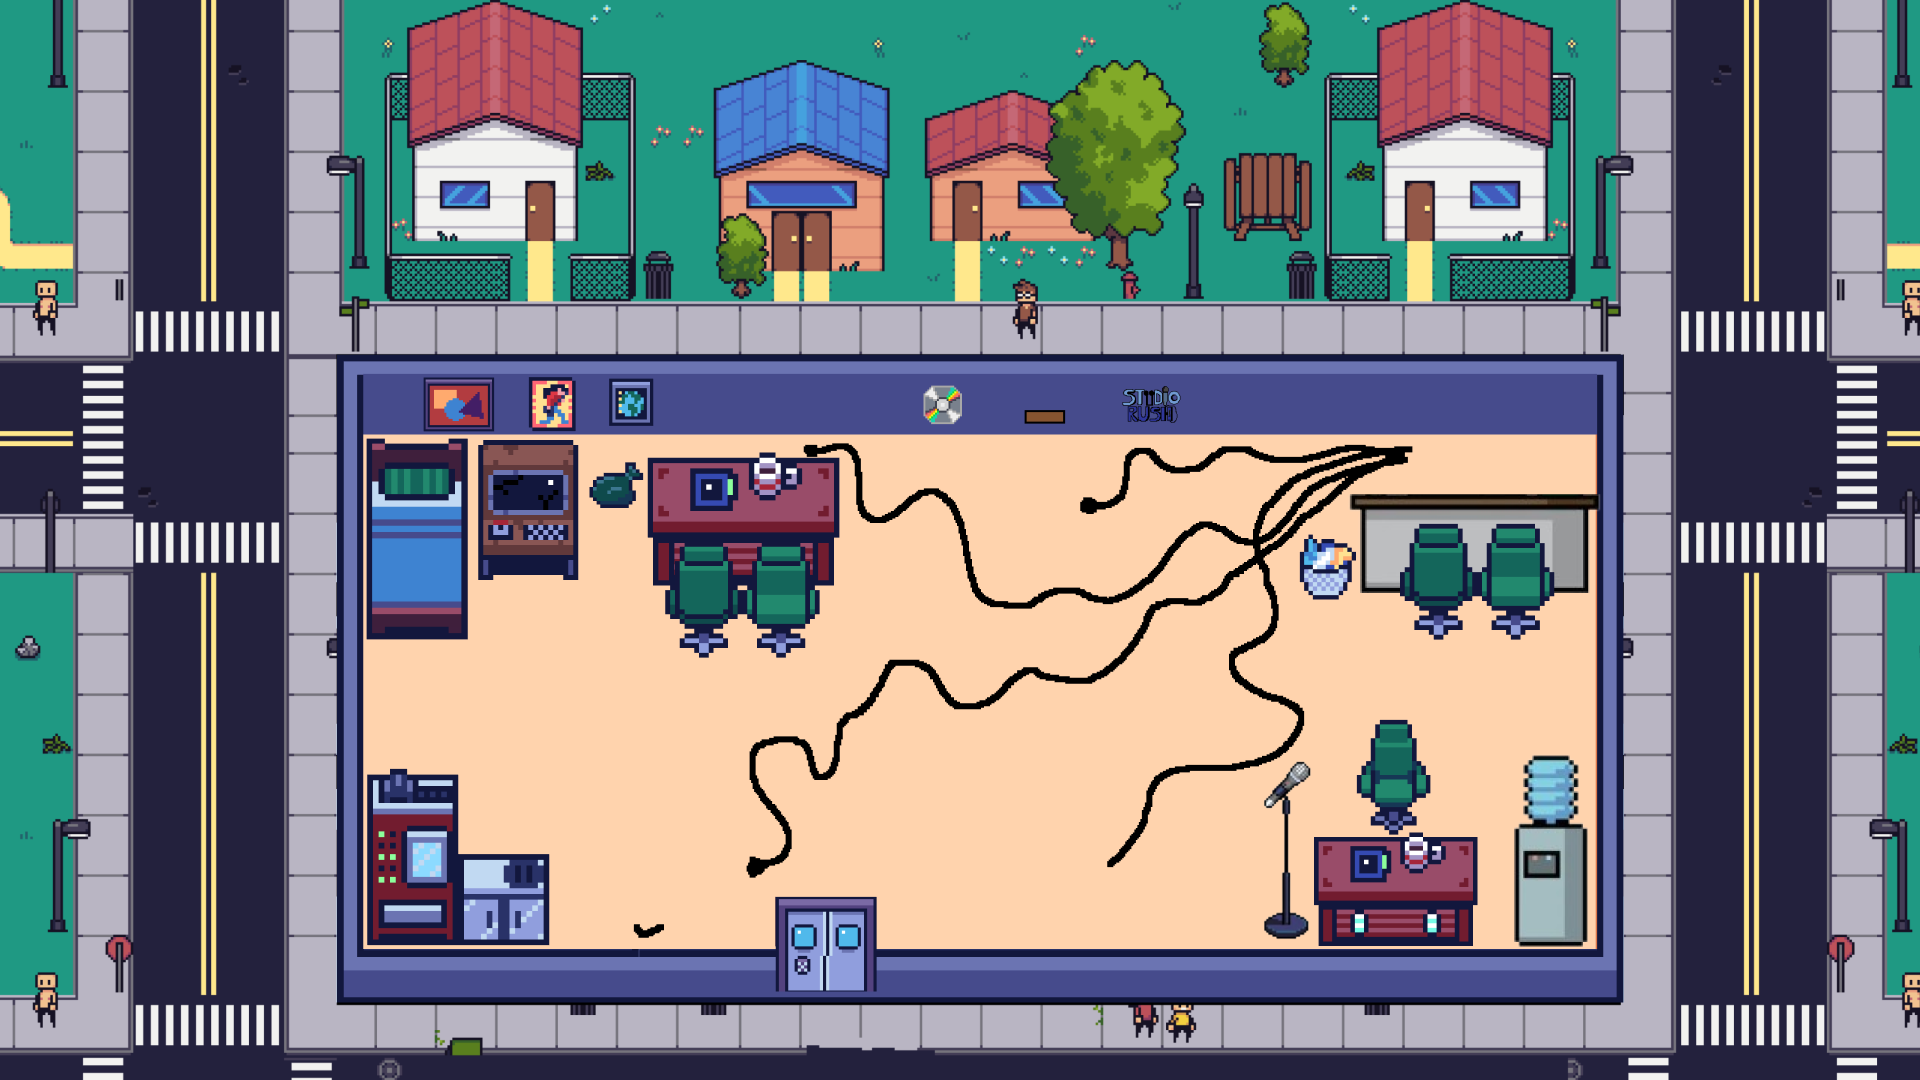
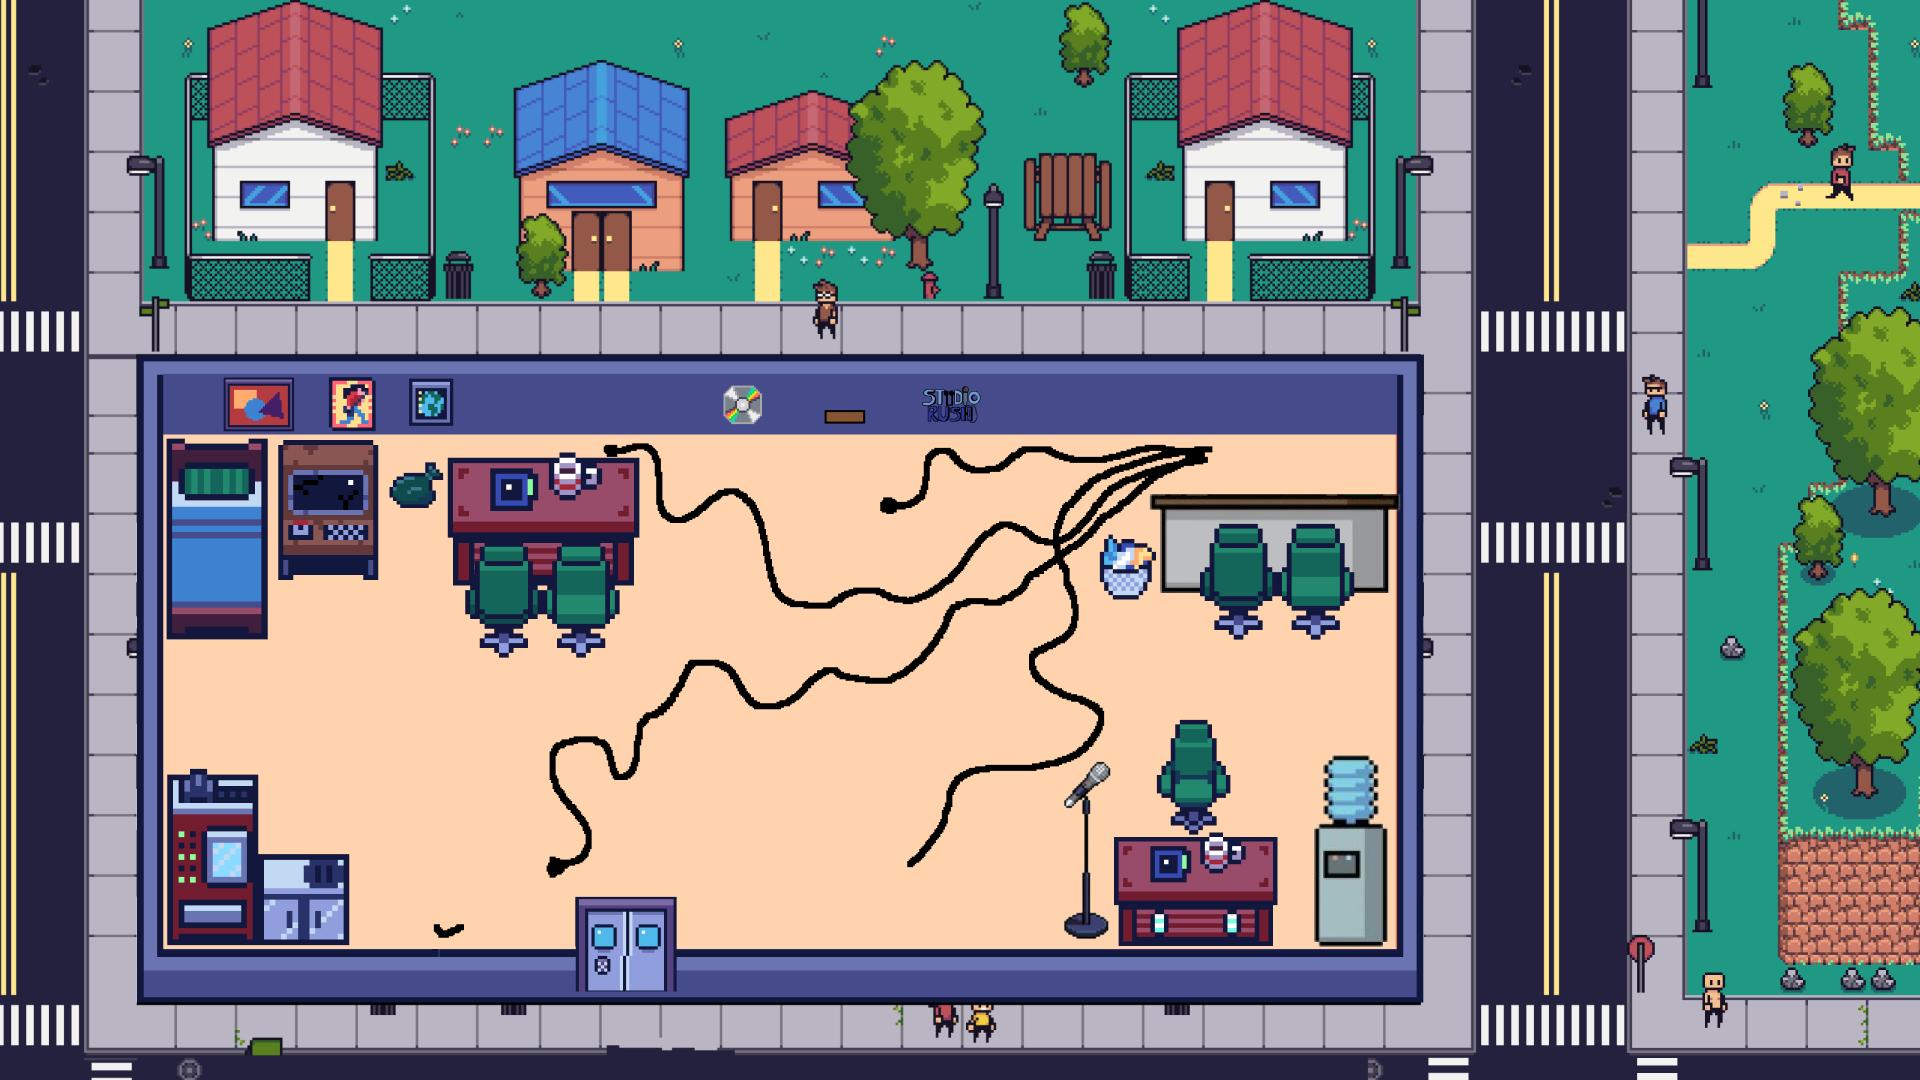
Customers

diff --git a/main.py b/main.py
@@ -1,48 +1,55 @@
 import pygame
+import random
+
 from utils import resize_img
 from player import Player
 from instrument import Instrument
 from instruments.guitar import Guitar
 from track import Track
+from customer import Customer
 
 class Game:
     def __init__(self, screen: pygame.Surface):
         self.screen = screen
         self.clock = pygame.time.Clock()
         self.dt = 0
-        self.FPS = 60
+        self.now = 0
+        self.FPS = 30
         self.running = True
         
         # Charger le fond
         self.background = resize_img(pygame.image.load("assets/images/studio.png"), width=screen.get_width())
 
         # Objet joueur
-        self.player = Player(405, 510, self.screen.get_width(), self.screen.get_height())
+        self.player = Player(280, 600, self.screen.get_width(), self.screen.get_height())
+
+        self.instrument_names = ["guitar", "bass", "drums", "piano"]
 
         self.instruments = [
-            Guitar(574, 772),
-            Instrument("bass", 1005, 375),
-            Instrument("drums", 927, 750),
-            Instrument("piano", 679, 440),
+            Guitar(374, 772),
+            Instrument("bass", 805, 375),
+            Instrument("drums", 727, 750),
+            Instrument("piano", 479, 440),
         ]
 
-        self.computer = Instrument("computer", 1391, 374)
+        self.computer = Instrument("computer", 1191, 374)
 
         # Collision
         self.collisions = [
-            pygame.Rect(340, 430, 20, 560),
-            pygame.Rect(1600, 430, 20, 560),
-            pygame.Rect(340, 430, 1280, 20),
-            pygame.Rect(340, 955, 1280, 20)
+            pygame.Rect(140, 430, 20, 560),
+            pygame.Rect(1400, 430, 20, 560),
+            pygame.Rect(140, 430, 1280, 20),
+            pygame.Rect(140, 955, 1280, 20)
         ]
 
         # Pistes
         self.tracks = []
         self.selected_track = 0
         self.max_instruments_per_track = 8
-        
-        for i in range(5):
-            self.tracks.append(Track(["guitar", "bass", "drums", "piano"], "tyler"))
+
+        # Clients
+        self.customer_names = ["tyler", "drake", "cardib", "travis", "lilwayne", "jcole", "eminem", "xxxtentacion"]
+        self.customers = []
 
     def handling_events(self):
         for event in pygame.event.get():
@@ -57,6 +64,9 @@ class Game:
                     for instrument in self.instruments:
                         if self.player.rect.colliderect(instrument.rect):
                             instrument.play()
+                
+                elif event.key == pygame.K_c: # TESTING
+                    self.spawn_customer()
 
                 # Instrument input
                 for instrument in self.instruments:
@@ -94,14 +104,22 @@ class Game:
             self.player.vel[0] = 0
 
     def update(self):
-        now = pygame.time.get_ticks() / 1000
         self.player.update(self.dt, self.collisions)
         
         for instrument in self.instruments:
-            instrument.update(now, self.dt, self.player)
+            instrument.update(self.now, self.dt, self.player)
         
-        self.computer.update(now, self.dt, self.player)
+        self.computer.update(self.now, self.dt, self.player)
 
+        despawn_idx = -1
+        for i, customer in enumerate(self.customers):
+            if customer.update(self.now):
+                despawn_idx = i
+        
+        if despawn_idx != -1:
+            self.customers.pop(despawn_idx)
+            self.tracks.pop(despawn_idx)
+        
     def display(self):
         # Dessiner l'image de fond
         self.screen.blit(self.background, (0, 0))
@@ -115,6 +133,10 @@ class Game:
         # Dessiner le joueur
         self.player.draw(self.screen)
 
+        # Dessiner les clients
+        for customer in self.customers:
+            customer.draw(self.screen, self.now)
+
         # Dessiner l'interface
         for i, track in enumerate(self.tracks):
             track.draw(self.screen, i, i == self.selected_track)
@@ -127,10 +149,19 @@ class Game:
     
     def run(self):
         while self.running:
+            self.now = pygame.time.get_ticks() / 1000
             self.handling_events()
             self.update()
             self.display()
             self.dt = self.clock.tick(self.FPS) / 1000
+    
+    def spawn_customer(self):
+        name = random.choice(self.customer_names)
+        while name in [customer.name for customer in self.customers]:
+            name = random.choice(self.customer_names)
+
+        self.customers.append(Customer(name, self.instrument_names, 1430, 800-100*len(self.customers), self.now))
+        self.tracks.append(Track(self.instrument_names, name))
 
 pygame.init()
 screen = pygame.display.set_mode((1920, 1080), pygame.SCALED | pygame.FULLSCREEN)

diff --git a/customer.py b/customer.py
@@ -1,0 +1,51 @@
+import pygame
+import random
+from utils import resize_img
+
+class Customer:
+    def __init__(self, name, instrument_names, x, y, now):
+        self.name = name
+        self.instrument_names = instrument_names
+        track_length = random.choices([1, 2, 3, 4, 5, 6, 7, 8], weights=[0.1, 0.2, 0.3, 0.2, 0.05, 0.05, 0.05, 0.05], k=1)[0]
+        self.track = random.choices(instrument_names, k=track_length)
+        self.time = track_length*30 + 30
+        self.start_time = now
+
+        self.img = resize_img(pygame.image.load(f"assets/images/customers/{name}.png"), height=80)
+        self.rect = self.img.get_rect(x=x, y=y)
+
+        self.timer_bar_height = self.img.get_height()//3
+        self.track_height = 2*self.timer_bar_height
+        self.icon_spacing = 8
+        self.icon_size = self.track_height - self.icon_spacing*2
+        self.track_bar_w = len(self.track)*(self.icon_size + self.icon_spacing) + self.icon_spacing
+
+        self.instruments_icons = [resize_img(pygame.image.load(f"assets/images/instruments/{instrument}.png"), self.icon_size, self.icon_size) for instrument in instrument_names]
+    
+    def update(self, now):
+        time_left = self.time - (now - self.start_time)
+        if time_left <= 0:
+            return True
+        return False
+
+    def draw(self, screen, now):
+        screen.blit(self.img, self.rect)
+        x = self.rect.right + self.icon_spacing
+        pygame.draw.rect(screen, (180, 180, 180), (x, self.rect.y, self.track_bar_w, self.track_height + self.timer_bar_height)) # Fond gris
+        pygame.draw.rect(screen, (255, 255, 255), (x + 4, self.rect.y + 4, self.track_bar_w - 8, self.track_height - 8)) # Fond blanc pour les instruments
+
+        # Dessiner les instruments de la commande
+        for i, instrument in enumerate(self.track):
+            screen.blit(self.instruments_icons[self.instrument_names.index(instrument)], (self.rect.right + self.icon_spacing*2 + i*(self.icon_size + self.icon_spacing), self.rect.y + self.icon_spacing))
+
+        # Dessiner la barre de temps
+        time_left = self.time - (now - self.start_time)
+
+        # Faire un dégradé du vert au rouge en fonction du temps restant
+        color = (0, 255, 0)
+        if time_left/self.time <= 0.5:
+            color = (255, 200, 0)
+        if time_left/self.time <= 0.3:
+            color = (255, 0, 0)
+
+        pygame.draw.rect(screen, color, (x + 4, self.rect.y + self.track_height + 4, (self.track_bar_w - 8)*time_left/self.time, self.timer_bar_height - 8))

diff --git a/track.py b/track.py
@@ -11,9 +11,9 @@ class Track():
         self.slots_per_line = 4
         self.slots_spacing = 4
         self.slot_size = self.width//self.slots_per_line - self.slots_spacing
-        self.slot_margin = 8
+        self.slot_padding = 8
 
-        icon_size = self.width//self.slots_per_line - self.slot_margin*2
+        icon_size = self.width//self.slots_per_line - self.slot_padding*2
 
         self.customer_img = resize_img(pygame.image.load(f"assets/images/customers/{customer}.png"), self.height//2)
         self.instruments_icons = [resize_img(pygame.image.load(f"assets/images/instruments/{instrument}.png"), icon_size, icon_size) for instrument in instrument_names]
@@ -22,7 +22,7 @@ class Track():
         self.instruments.append(instrument)
 
     def draw(self, screen, idx, selected):
-        x = 350 + (self.width + self.spacing)*idx
+        x = 100 + (self.width + self.spacing)*idx
         if selected:
             pygame.draw.rect(screen, (0, 0, 0), (x - 6, self.spacing - 6, self.width + 12, self.height + 12))
         pygame.draw.rect(screen, (255, 255, 255), (x, self.spacing, self.width, self.height))
@@ -41,4 +41,4 @@ class Track():
 
             pygame.draw.rect(screen, (180, 180, 180), (icon_x, icon_y, self.slot_size, self.slot_size)) # Bordure grise
             pygame.draw.rect(screen, (255, 255, 255), (icon_x + 4, icon_y + 4, self.slot_size - 8, self.slot_size - 8)) # Fond blanc
-            screen.blit(self.instruments_icons[self.instrument_names.index(instrument)], (icon_x + self.slot_margin//2, icon_y + self.slot_margin//2)) # Icone
+            screen.blit(self.instruments_icons[self.instrument_names.index(instrument)], (icon_x + self.slot_padding//2, icon_y + self.slot_padding//2)) # Icone
